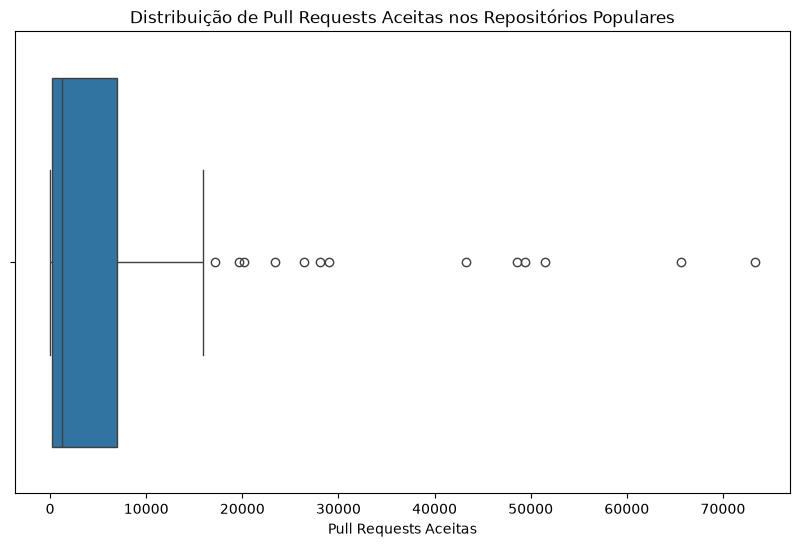
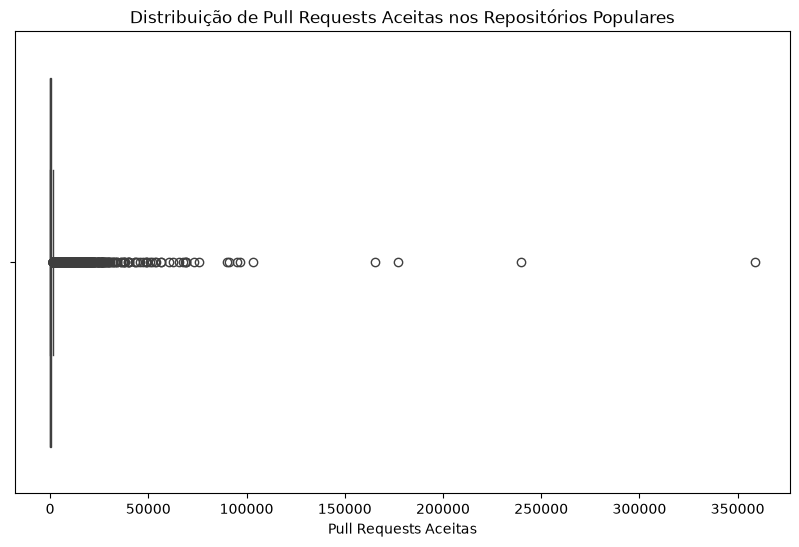
chore: recalculate stats and graphs for new database

diff --git a/src/scripts/rq01/resultado_rq01.md b/src/scripts/rq01/resultado_rq01.md
@@ -1,0 +1,7 @@
+# Resultado RQ01 - Idade dos repositórios
+
+- **Mediana**: 8.72 anos
+- **Média**: 8.33 anos
+- **Desvio padrão**: 4.32 anos
+
+A partir da mediana, podemos concluir se os repositórios são em geral mais maduros/antigos ou não.

diff --git a/src/scripts/rq02/resultado_rq02.md b/src/scripts/rq02/resultado_rq02.md
@@ -1,0 +1,7 @@
+# Resultado RQ02 - Pull Requests Aceitas
+
+- **Mediana**: 134.00
+- **Média**: 1273.64
+- **Desvio padrão**: 6215.67
+
+A partir desses dados, avaliamos se os sistemas recebem muita contribuição externa (alto número de PRs).
